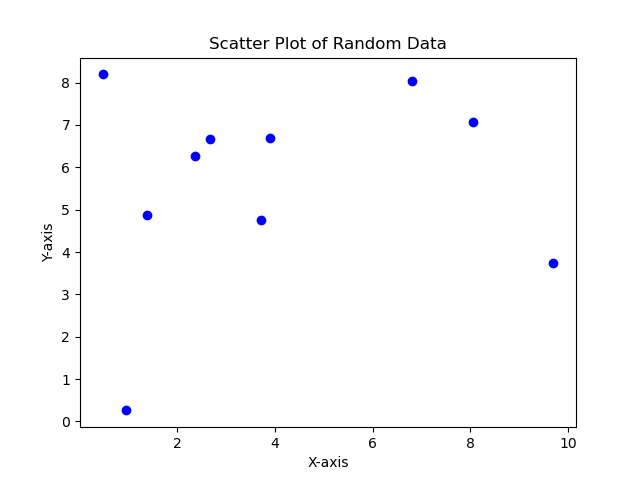
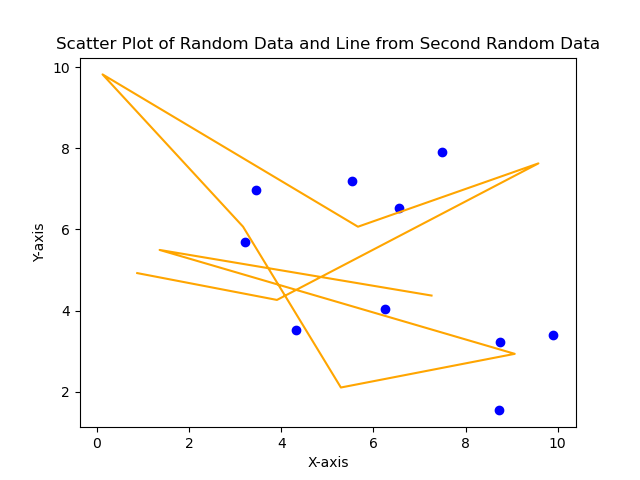
secondchanges solving the issue reported

diff --git a/test.py b/test.py
@@ -14,8 +14,15 @@ y = [random.uniform(0, 10) for i in range(points)]
 #  plotthe datapoints as dots
 plt.scatter(x, y, label='Random Data', color='blue', marker='o')
 
+# plot seacond 10 random datapoints
+x2 = [random.uniform(0, 10) for i in range(points)]
+y2 = [random.uniform(0, 10) for i in range(points)]
+
+# plot a line for the seond randomly generated data datapoints
+plt.plot(x2, y2, label='Second Random Data', color='orange')
+
 # add labels to the x- and y-axis and a title
-plt.title('Scatter Plot of Random Data')
+plt.title('Scatter Plot of Random Data and Line from Second Random Data')
 plt.xlabel('X-axis')
 plt.ylabel('Y-axis')
 
